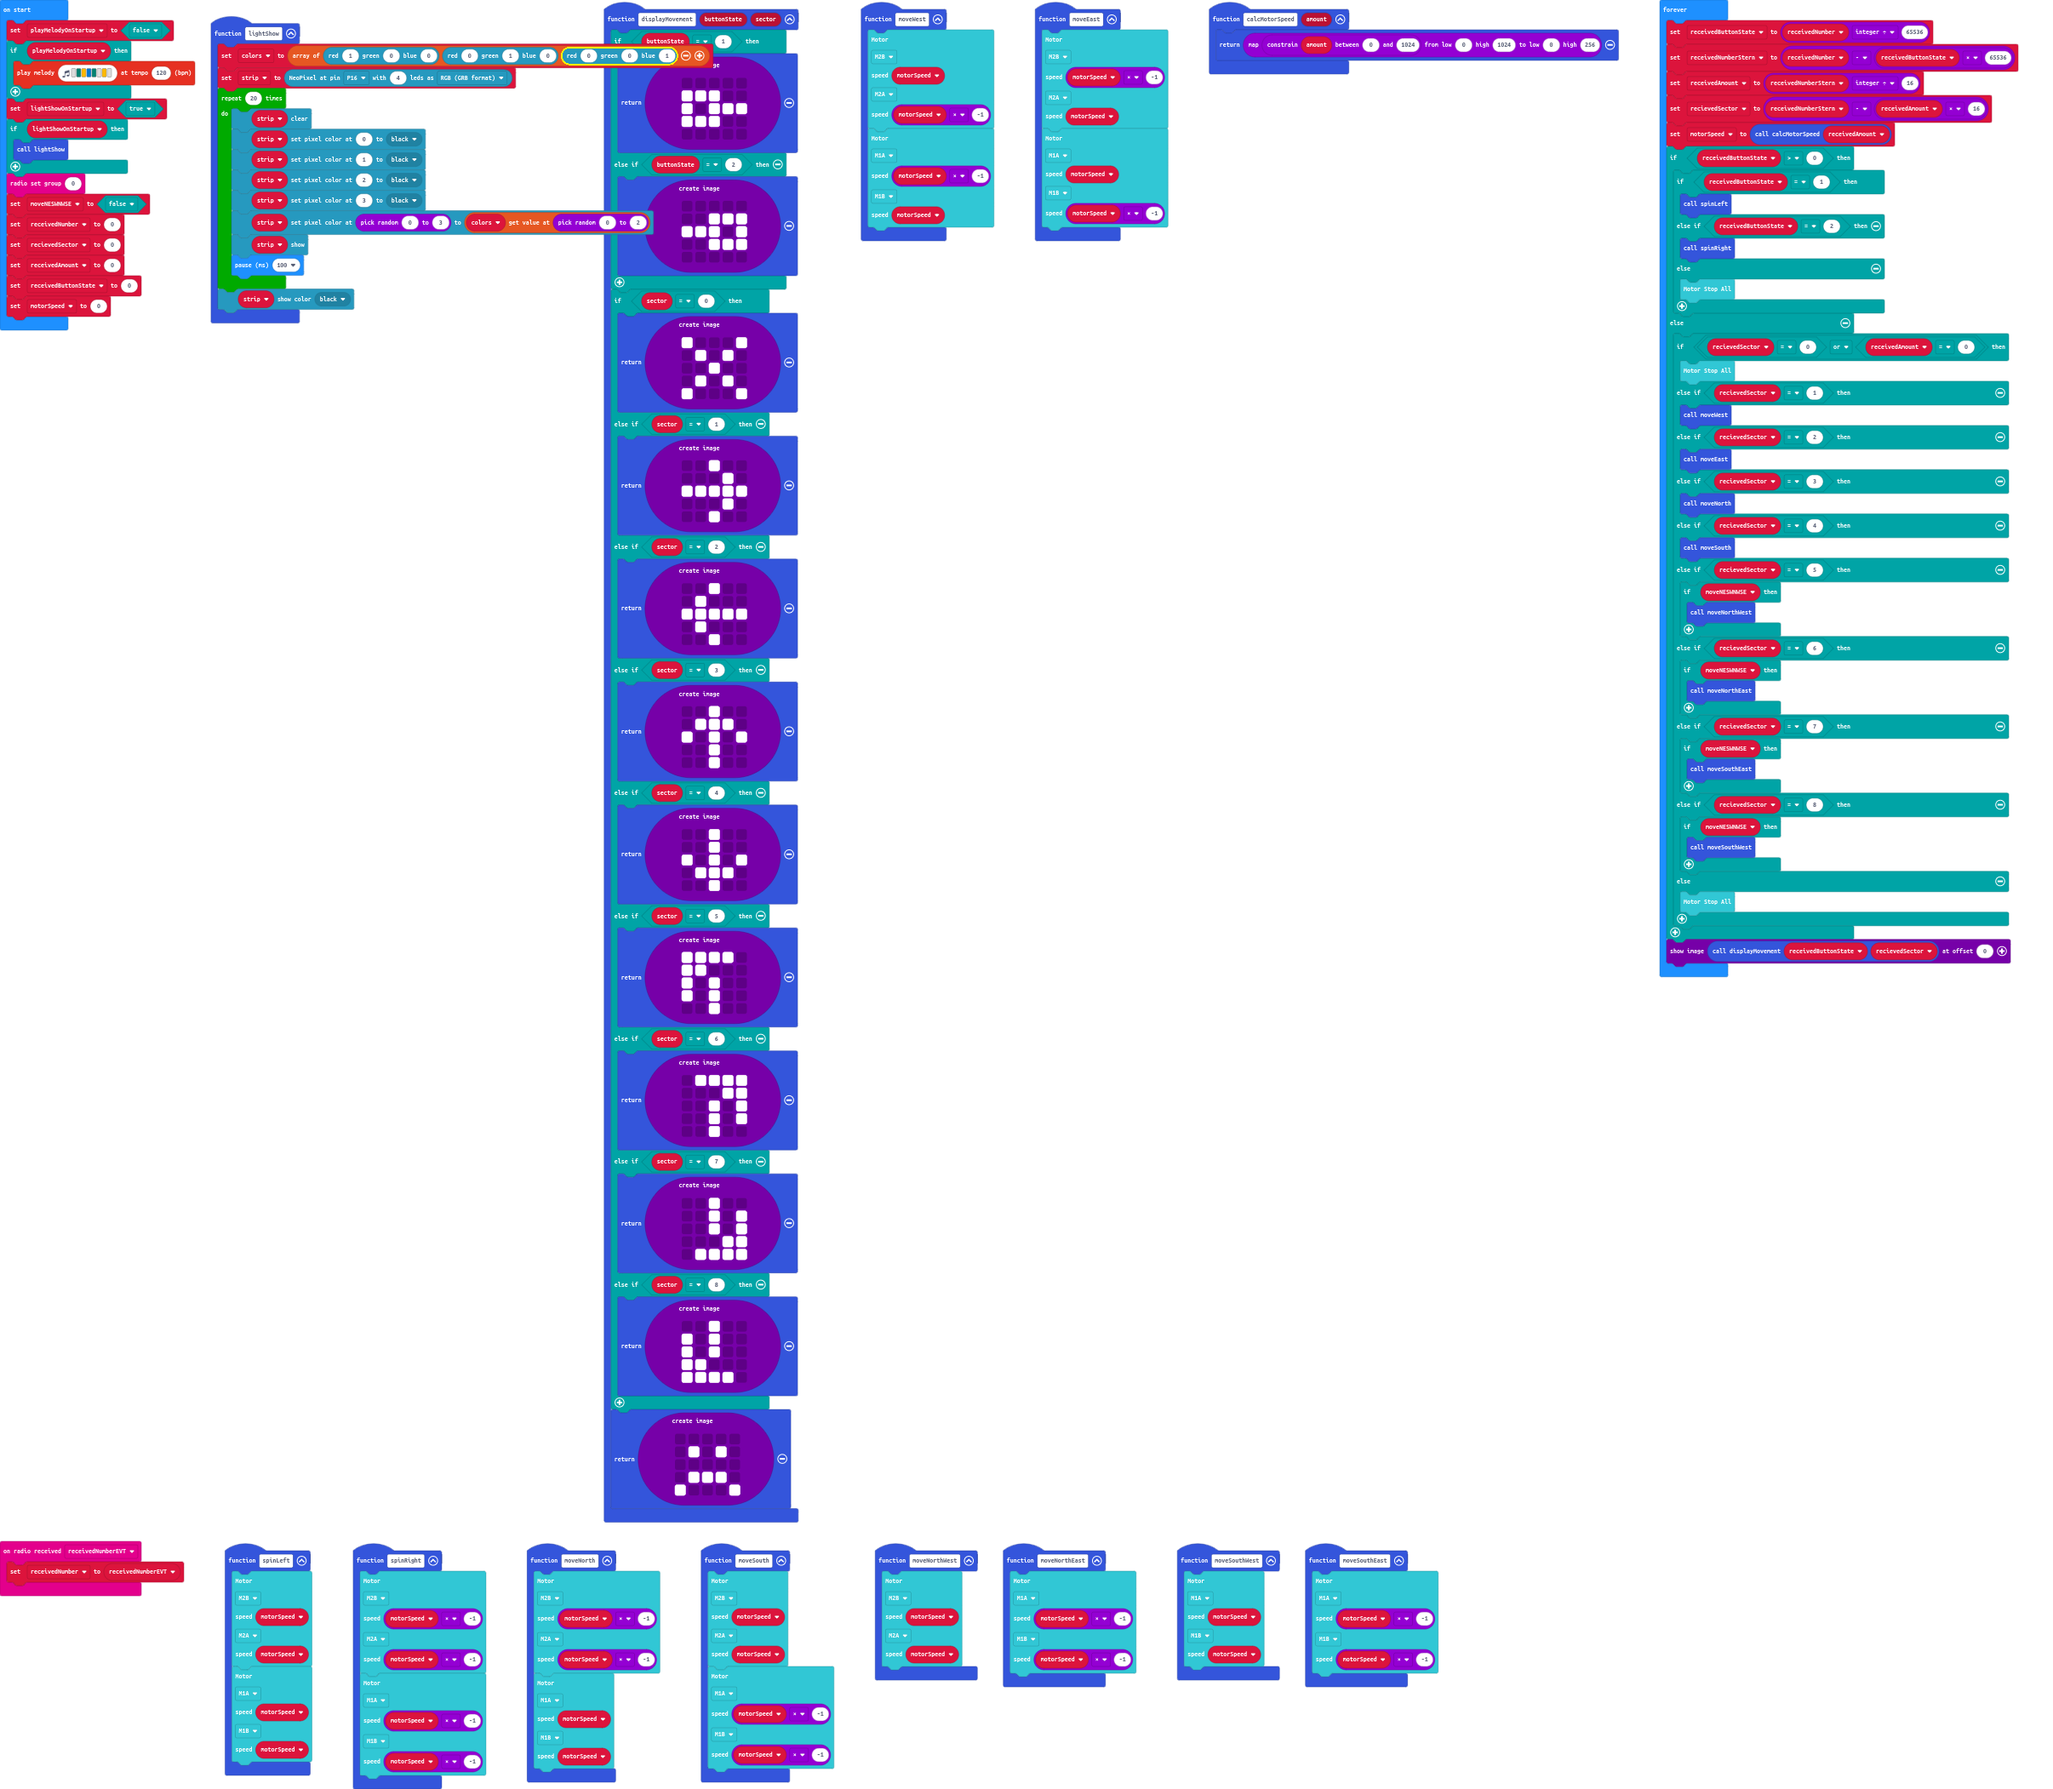
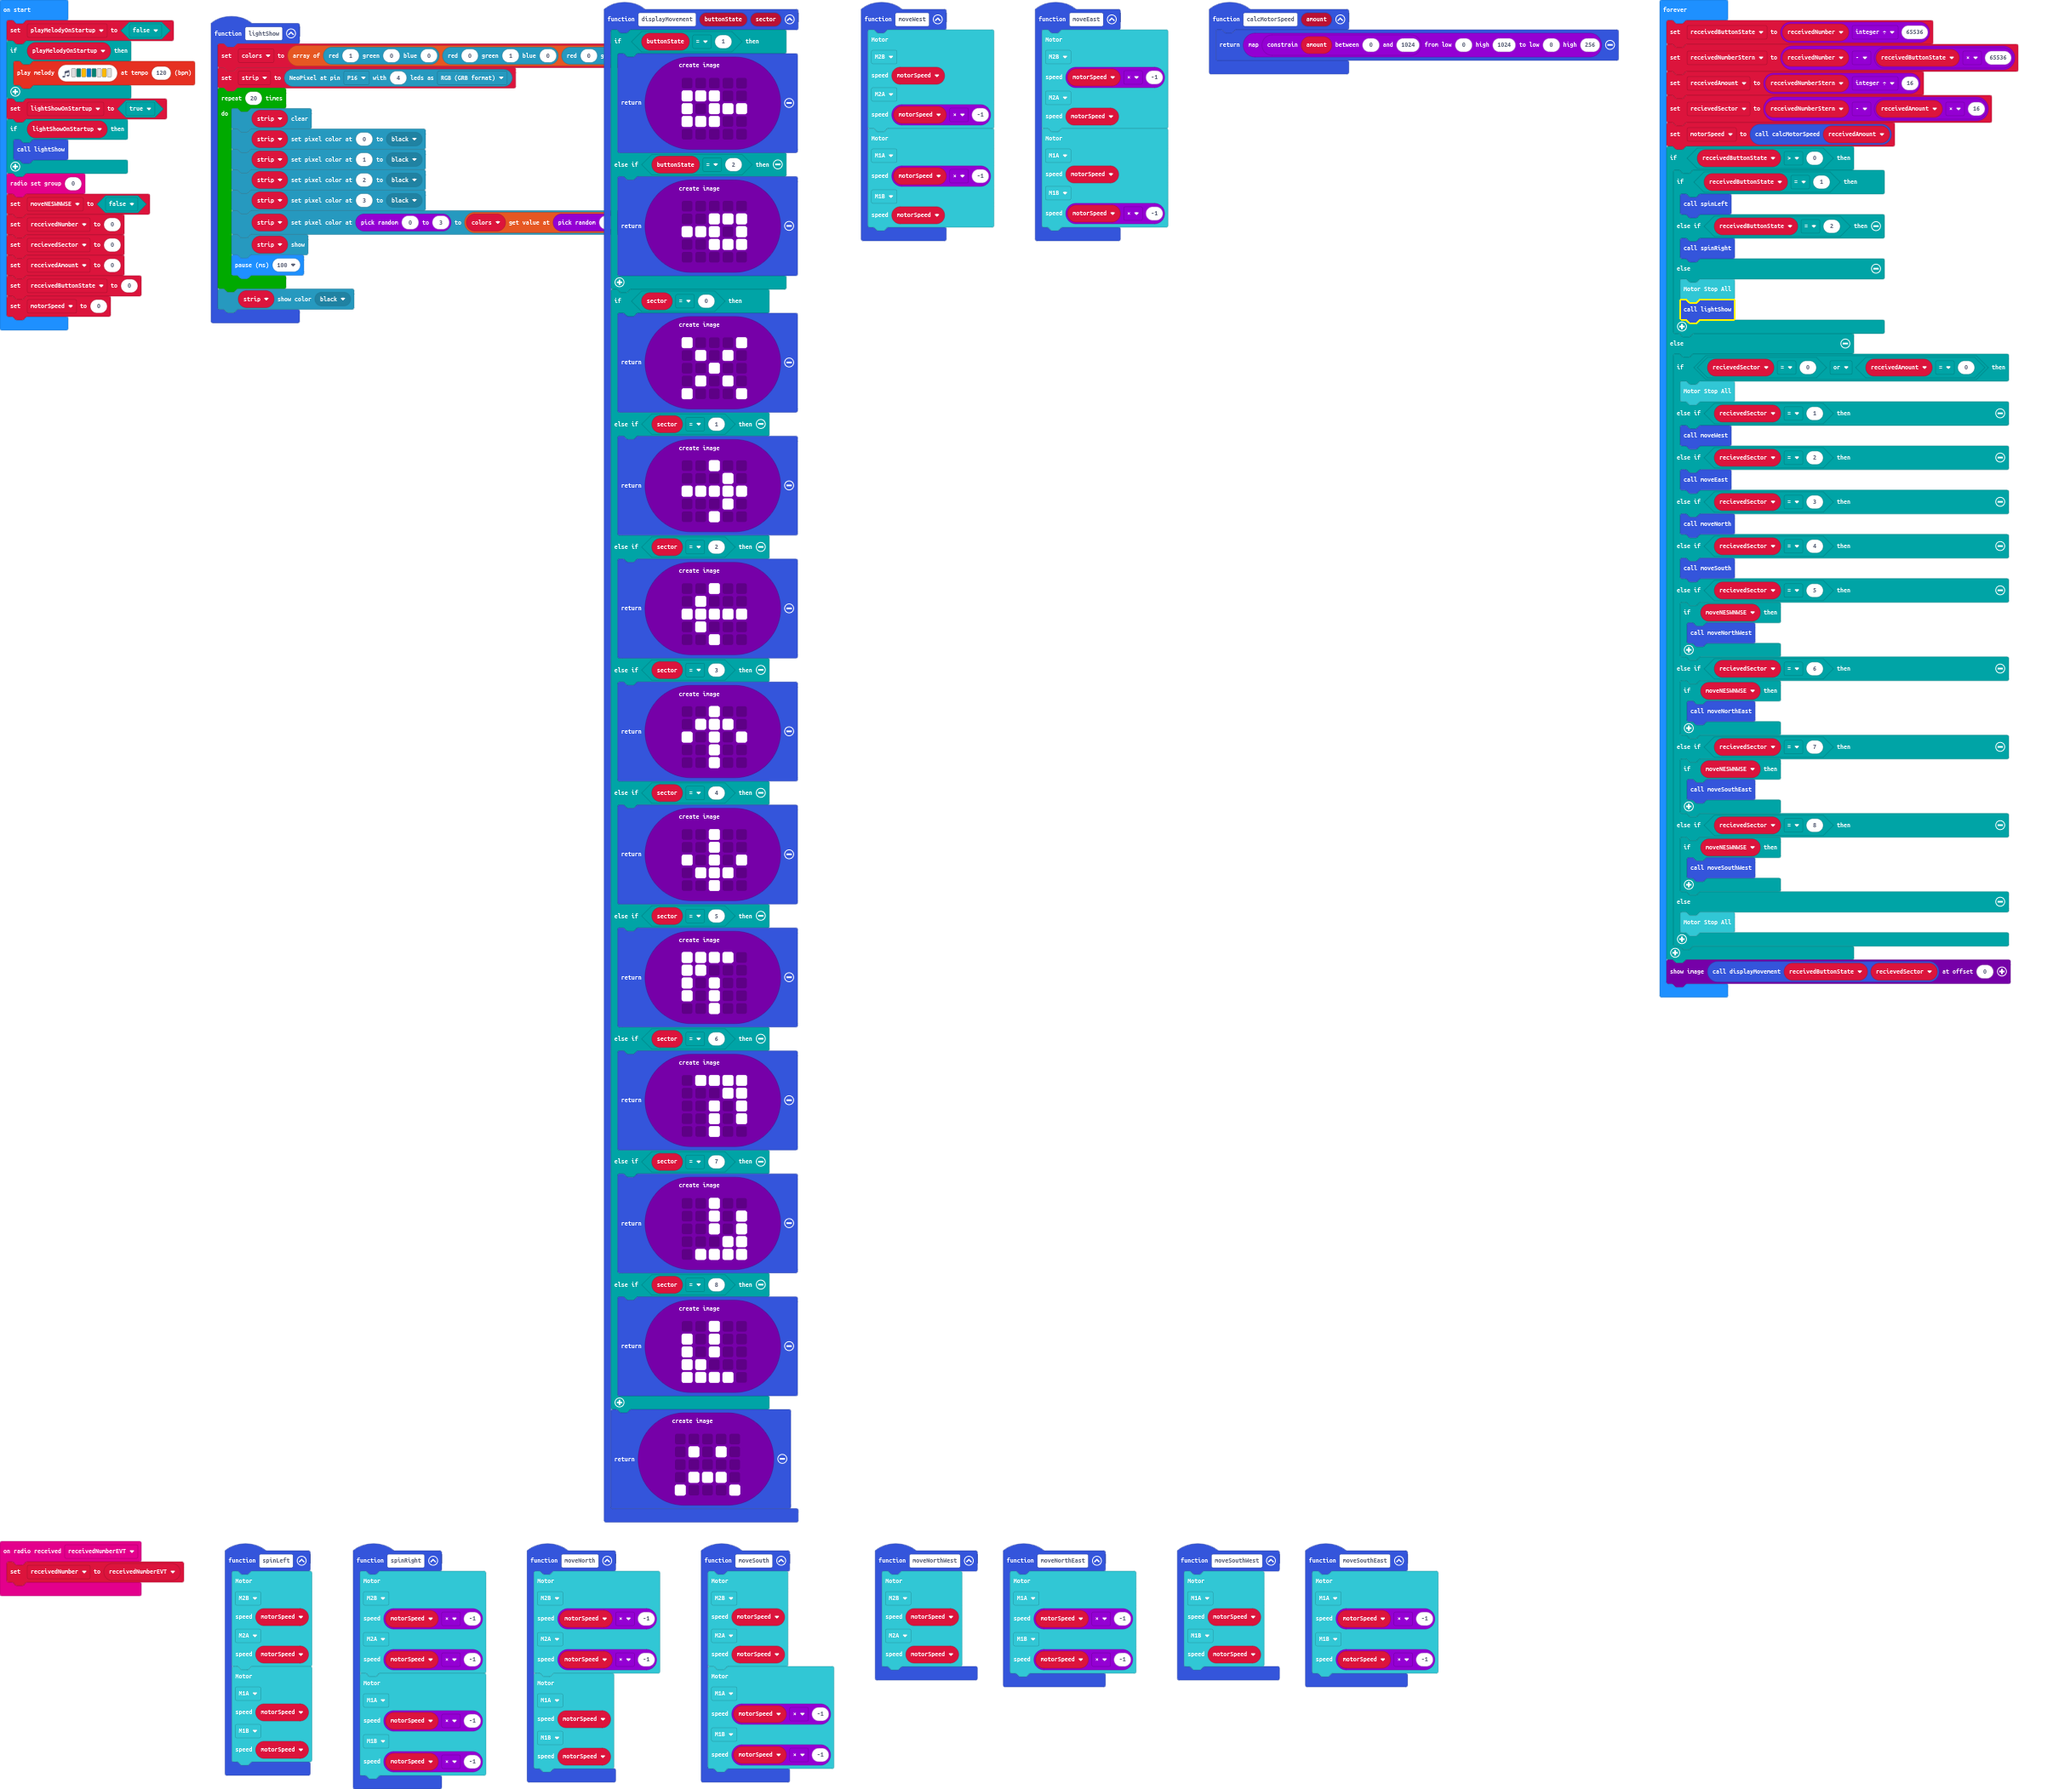
LightShow  when A and B pressed

Changed region(s): [[0.8085, 0.1546, 0.995, 0.5566], [0.2799, 0.0, 0.342, 0.0618], [0.2799, 0.0928, 0.3109, 0.1546]]

diff --git a/main.ts b/main.ts
@@ -267,6 +267,7 @@ basic.forever(function () {
             spinRight()
         } else {
             robotbit.MotorStopAll()
+            lightShow()
         }
     } else {
         if (recievedSector == 0 || receivedAmount == 0) {
